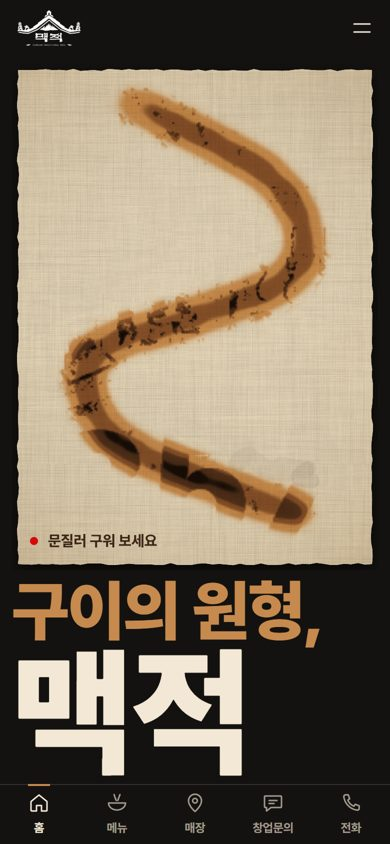
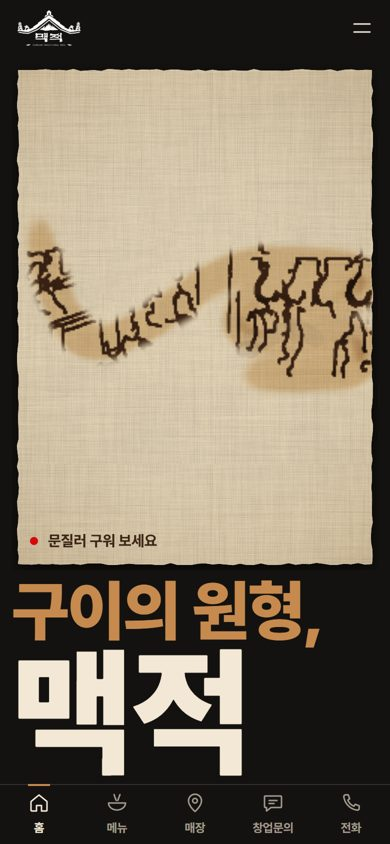
맥적 2안 낙화 장면을 갈색 선화로 다듬고 보드 아이콘 추가

Changed region(s): [[0.0615, 0.0924, 0.9538, 0.6469]]

diff --git a/2/js/nakhwa.js b/2/js/nakhwa.js
@@ -11,45 +11,41 @@ const sstep = (a, b, x) => {
 export const NK = {
   radiusFrac: 0.04, radiusMin: 24, radiusMax: 70, // 인두 반경 = 무대 폭 4%
   pass: 0.35,      // 보통 빠르기로 한 번 지날 때 쌓이는 열
-  base: 0.82,      // 바탕(벽화 선이 없는 곳)의 그을림 빠르기 → 세 번이면 짙은 갈 문턱
-  lineGain: 1.0,   // 벽화 선 자리 = 0.82 + 1.0 = 1.82 (바탕의 약 2.2배)
-  cap: 1.3,        // 바탕은 짙은 갈에서 멈춤(선 자리만 숯까지)
-  th: [0.175, 0.525, 0.875, 1.47], // 연갈 · 갈 · 짙은 갈 · 숯 문턱
-  w: 0.075,        // 단계 경계의 부드러움
+  base: 0.6,       // 바탕(선이 아닌 곳) 그을림 빠르기 — 아무리 문질러도 연갈~갈(2단)까지만
+  lineGain: 1.0,   // 선화 자리: 짙은 갈 → 숯
+  cap: 1.3,
+  bgTh: [0.15, 0.5], bgW: 0.09,   // 바탕 2단 문턱(부드럽게)
+  lnTh: [0.05, 0.38, 0.5, 0.95],  // 선: 짙은 갈로 진해지는 구간, 숯으로 가는 구간
   speedPC: 700, speedTouch: 450, // '보통 빠르기'(px/s)
-  demoDur: 2.5, demoHeat: 0.9, // 시범 인두: 2.5초, 지나간 자리 누적 0.9(바탕 갈 + 선은 숯)
+  demoDur: 2.5, demoHeat: 0.65, // 시범 인두: 2.5초, 지나간 자리 누적 0.65(선은 짙은 갈, 바탕은 연갈)
   follow: 30,      // 인두가 손을 따라가는 빠르기 1-exp(-dt*k)
   dwell: 0.9,      // 멈춘 채 이 시간이 지나면 인두를 든다(초)
 };
 
-// 곱하기 색 — 한지(약 #E5D9C2) 위에 곱해지면 목표색이 되도록 맞춘 값
-const STOPS = [
-  [255, 255, 255], // 그대로
-  [226, 168, 104], // 연갈  ≈ #C68A4E
-  [150, 96, 56],   // 갈    ≈ #7A4A28
-  [92, 58, 36],    // 짙은 갈 ≈ 먹색 75% 수준
-  [26, 16, 10],    // 숯(벽화 선 자리만)
-];
+// 곱하기 색 — 한지(약 #E6DBC7) 위에 곱해져 목표색이 되도록 맞춘 값
+// 바탕은 주황기 없는 '구운 종이' 2단, 선만 짙은 갈 → 숯
+const BG = [[255, 255, 255], [232, 208, 170], [184, 140, 100]]; // 그대로 · 연갈 · 갈
+const LN_DARK = [66, 42, 28];  // 짙은 갈 ≈ #3B2416
+const LN_CHAR = [24, 15, 10];  // 숯
 
 function buildLUT() {
-  const N = 1024, VMAX = 2.4;
-  const lut = new Uint8ClampedArray(N * 3);
+  const N = 1024, VMAX = 1.6;
+  const bg = new Uint8ClampedArray(N * 3), ln = new Uint8ClampedArray(N * 4);
   for (let i = 0; i < N; i++) {
     const v = (i / (N - 1)) * VMAX;
-    let stage = 0;
-    for (const x of NK.th) stage += sstep(x - NK.w, x + NK.w, v);
-    // 첫 단계 전에도 아주 옅게 누렇게 — 손이 닿은 걸 알 수 있게
-    stage += 0.25 * sstep(0.02, NK.th[0], v) * (1 - sstep(NK.th[0] - NK.w, NK.th[0] + NK.w, v));
-    // 단계 안에서도 조금씩 진해지게(평평한 판처럼 보이지 않게)
-    const cont = clamp(v / NK.pass, 0, 4);
-    const t = clamp(stage * 0.86 + cont * 0.14, 0, 4);
-    const k = Math.min(3, Math.floor(t)), f = t - k;
-    const a = STOPS[k], b = STOPS[k + 1];
-    lut[i * 3] = a[0] + (b[0] - a[0]) * f;
-    lut[i * 3 + 1] = a[1] + (b[1] - a[1]) * f;
-    lut[i * 3 + 2] = a[2] + (b[2] - a[2]) * f;
+    // 바탕: 2단(경계는 부드럽게), 그 이상은 안 간다
+    let t = 0;
+    for (const x of NK.bgTh) t += sstep(x - NK.bgW, x + NK.bgW, v);
+    t = clamp(t * 0.85 + clamp(v / NK.bgTh[1], 0, 2) * 0.075, 0, 2);
+    const k = Math.min(1, Math.floor(t)), f = t - k;
+    for (let c = 0; c < 3; c++) bg[i * 3 + c] = BG[k][c] + (BG[k + 1][c] - BG[k][c]) * f;
+    // 선: 짙은 갈로 떠오르고 → 숯으로
+    const a = sstep(NK.lnTh[0], NK.lnTh[1], v);
+    const ch = sstep(NK.lnTh[2], NK.lnTh[3], v);
+    for (let c = 0; c < 3; c++) ln[i * 4 + c] = LN_DARK[c] + (LN_CHAR[c] - LN_DARK[c]) * ch;
+    ln[i * 4 + 3] = a * 255;
   }
-  return { lut, N, scale: (N - 1) / VMAX };
+  return { bg, ln, N, scale: (N - 1) / VMAX };
 }
 
 // 고정 씨앗 난수(그림이 매번 같게)
@@ -86,7 +82,7 @@ function coverSrc(iw, ih, w, h, fx, fy) {
 }
 
 export function createNakhwa(stage, opts = {}) {
-  const { reduceMotion = false, isTouch = false, muralSrc, tileSrc, onFirstBurn } = opts;
+  const { reduceMotion = false, isTouch = false, muralSrc, tileSrc, linesSrc, onFirstBurn } = opts;
   const paper = stage.querySelector('.nk__paper');
   const burn = stage.querySelector('.nk__burn');
   const fx = stage.querySelector('.nk__fx');
@@ -95,10 +91,10 @@ export function createNakhwa(stage, opts = {}) {
   const fctx = fx.getContext('2d');
   if (!pctx || !bctx || !fctx) throw new Error('canvas 2d 불가');
 
-  const { lut, N: LN, scale: LS } = buildLUT();
+  const { bg: BGL, ln: LNL, N: LN, scale: LS } = buildLUT();
   const debugInk = /nkdebug/.test(location.search);
 
-  let mural = null, tile = null;
+  let mural = null, tile = null, lines = null;
   let W = 0, H = 0, dpr = 1, cs = 2, fw = 0, fh = 0;
   let rect = null; // 한지 사각형(CSS px)
   let heat = null, ink = null, grain = null, mask = null, img = null;
@@ -116,8 +112,8 @@ export function createNakhwa(stage, opts = {}) {
   let acc = 0;
 
   // ───────── 준비 ─────────
-  const loaded = Promise.all([loadImage(muralSrc), loadImage(tileSrc)]).then(([m, t]) => {
-    mural = m; tile = t;
+  const loaded = Promise.all([loadImage(muralSrc), loadImage(tileSrc), loadImage(linesSrc)]).then(([m, t, l]) => {
+    mural = m; tile = t; lines = l;
     build();
     ready = true;
     startDemo();
@@ -253,76 +249,41 @@ export function createNakhwa(stage, opts = {}) {
     mask = new Float32Array(fw * fh);
     for (let i = 0; i < fw * fh; i++) mask[i] = md[i * 4 + 3] / 255;
 
-    // 벽화 → '미리 먹인 선'
+    // 벽화 선화(윤곽선) 지도 → 0~1
     ctx.clearRect(0, 0, fw, fh);
     const [fxp, fyp] = muralFocus();
     const rx = rect.x * s, ry = rect.y * s, rw = rect.w * s, rh = rect.h * s;
-    const src = coverSrc(mural.width, mural.height, rw, rh, fxp, fyp);
-    ctx.drawImage(mural, src[0], src[1], src[2], src[3], rx, ry, rw, rh);
+    const src = coverSrc(lines.width, lines.height, rw, rh, fxp, fyp);
+    ctx.imageSmoothingQuality = 'high';
+    ctx.drawImage(lines, src[0], src[1], src[2], src[3], rx, ry, rw, rh);
     const d = ctx.getImageData(0, 0, fw, fh).data;
     const n = fw * fh;
-    const L = new Float32Array(n), red = new Float32Array(n);
-    for (let i = 0; i < n; i++) {
-      const r = d[i * 4] / 255, g = d[i * 4 + 1] / 255, b = d[i * 4 + 2] / 255;
-      L[i] = 0.299 * r + 0.587 * g + 0.114 * b;
-      red[i] = r - Math.max(g, b);
-    }
-    const M = boxBlur(boxBlur(L, fw, fh, Math.max(3, Math.round(7 / cs * 2))), fw, fh, Math.max(3, Math.round(7 / cs * 2)));
     ink = new Float32Array(n);
-    for (let i = 0; i < n; i++) {
-      const hp = sstep(0.035, 0.14, M[i] - L[i]);           // 둘레보다 어두운 곳 = 선
-      const rd = sstep(0.13, 0.28, red[i]);                  // 붉은 안료(불·고기)만
-      const dk = 0;
-      ink[i] = clamp(Math.max(hp, rd) + dk, 0, 1);
-    }
-    // 선을 둥글게 한 칸 굵히고 잡티(얼룩 점)는 지움: 흐리게 → 대비 곡선
-    const soft = boxBlur(ink, fw, fh, 1);
-    for (let i = 0; i < n; i++) ink[i] = sstep(0.12, 0.62, ink[i] * 0.5 + soft[i] * 0.75) * mask[i];
-    // 큰 숫자 '357' — 문지르면 낙인처럼 떠오른다
+    // 줄여 그리면 선이 옅어지므로 대비를 조금 올림
+    for (let i = 0; i < n; i++) ink[i] = sstep(0.1, 0.65, d[i * 4] / 255) * mask[i];
+    // '357' — 같은 선화 결로(윤곽만) 숨겨 둔다
     ctx.clearRect(0, 0, fw, fh);
-    ctx.fillStyle = '#fff';
+    ctx.strokeStyle = '#fff';
+    ctx.lineJoin = 'round';
     ctx.textBaseline = 'alphabetic';
     let size, x, y;
     if (portrait) {
       size = rw * 0.44;
-      ctx.font = `900 ${size}px "Pretendard Variable", Pretendard, sans-serif`;
       ctx.textAlign = 'center';
       x = rx + rw * 0.5; y = ry + rh * 0.955;
     } else {
       size = rh * 0.40;
-      ctx.font = `900 ${size}px "Pretendard Variable", Pretendard, sans-serif`;
       ctx.textAlign = 'right';
       x = rx + rw * 0.965; y = ry + rh * 0.95;
     }
-    ctx.fillText('357', x, y);
+    ctx.font = `900 ${size}px "Pretendard Variable", Pretendard, sans-serif`;
+    ctx.lineWidth = Math.max(1.6, size * 0.03);
+    ctx.strokeText('357', x, y);
     const td = ctx.getImageData(0, 0, fw, fh).data;
     for (let i = 0; i < n; i++) {
       const a = td[i * 4 + 3] / 255;
-      if (a > 0) ink[i] = Math.max(ink[i], a * 0.92 * mask[i]);
+      if (a > 0) ink[i] = Math.max(ink[i], a * mask[i]);
     }
-  }
-
-  function boxBlur(src, w, h, r) {
-    const tmp = new Float32Array(w * h), out = new Float32Array(w * h);
-    const inv = 1 / (r * 2 + 1);
-    for (let y = 0; y < h; y++) {
-      let acc = 0;
-      const row = y * w;
-      for (let x = -r; x <= r; x++) acc += src[row + clamp(x, 0, w - 1)];
-      for (let x = 0; x < w; x++) {
-        tmp[row + x] = acc * inv;
-        acc += src[row + Math.min(w - 1, x + r + 1)] - src[row + Math.max(0, x - r)];
-      }
-    }
-    for (let x = 0; x < w; x++) {
-      let acc = 0;
-      for (let y = -r; y <= r; y++) acc += tmp[clamp(y, 0, h - 1) * w + x];
-      for (let y = 0; y < h; y++) {
-        out[y * w + x] = acc * inv;
-        acc += tmp[Math.min(h - 1, y + r + 1) * w + x] - tmp[Math.max(0, y - r) * w + x];
-      }
-    }
-    return out;
   }
 
   // 그을림이 고르지 않게 — 낮은 주파수 얼룩(0.86~1.14)
@@ -399,13 +360,16 @@ export function createNakhwa(stage, opts = {}) {
     for (let y = y0; y < y1; y++) {
       let i = y * fw + x0;
       for (let x = x0; x < x1; x++, i++) {
-        const v = heat[i] * (NK.base + NK.lineGain * ink[i]) * grain[i];
-        let li = (v * LS) | 0;
+        const h = heat[i] * grain[i];
+        let bi = (h * NK.base * LS) | 0;
+        if (bi > LN - 1) bi = LN - 1;
+        let li = (h * NK.lineGain * ink[i] * LS) | 0;
         if (li > LN - 1) li = LN - 1;
-        const o = i << 2, l = li * 3;
-        data[o] = lut[l];
-        data[o + 1] = lut[l + 1];
-        data[o + 2] = lut[l + 2];
+        const o = i << 2, b3 = bi * 3, l4 = li << 2;
+        const a = LNL[l4 + 3] / 255;
+        data[o] = BGL[b3] + (LNL[l4] - BGL[b3]) * a;
+        data[o + 1] = BGL[b3 + 1] + (LNL[l4 + 1] - BGL[b3 + 1]) * a;
+        data[o + 2] = BGL[b3 + 2] + (LNL[l4 + 2] - BGL[b3 + 2]) * a;
       }
     }
     bctx.putImageData(img, 0, 0, x0, y0, x1 - x0, y1 - y0);
@@ -414,8 +378,8 @@ export function createNakhwa(stage, opts = {}) {
   // ───────── 시범 인두(S자) ─────────
   function buildDemoPath() {
     const wp = portrait
-      ? [[0.30, 0.06], [0.72, 0.22], [0.80, 0.40], [0.50, 0.50], [0.20, 0.58], [0.26, 0.74], [0.56, 0.84], [0.80, 0.90]]
-      : [[0.04, 0.30], [0.16, 0.52], [0.26, 0.60], [0.38, 0.47], [0.47, 0.42], [0.57, 0.56], [0.70, 0.78], [0.86, 0.80], [0.97, 0.70]];
+      ? [[0.05, 0.30], [0.10, 0.44], [0.20, 0.56], [0.40, 0.50], [0.62, 0.40], [0.95, 0.40], [0.96, 0.46], [0.66, 0.47], [0.64, 0.54], [0.96, 0.54], [0.96, 0.61], [0.66, 0.62]]
+      : [[0.07, 0.50], [0.15, 0.44], [0.21, 0.58], [0.30, 0.50], [0.36, 0.41], [0.49, 0.41], [0.51, 0.50], [0.37, 0.53], [0.35, 0.62], [0.50, 0.63]];
     const P = wp.map(([u, v]) => [rect.x + u * rect.w, rect.y + v * rect.h]);
     const pts = [];
     for (let i = 0; i < P.length - 1; i++) {
@@ -687,12 +651,13 @@ export function createNakhwa(stage, opts = {}) {
 
   // 검수용: 현재 숫자와 상태
   function stats() {
-    let s1 = 0, s2 = 0, s3 = 0;
+    let bg1 = 0, bg2 = 0, lnDark = 0, lnChar = 0;
     for (let i = 0; i < heat.length; i++) {
-      const v = heat[i] * (NK.base + NK.lineGain * ink[i]);
-      if (v > NK.th[2]) s3++; else if (v > NK.th[1]) s2++; else if (v > NK.th[0]) s1++;
+      const b = heat[i] * NK.base, l = heat[i] * NK.lineGain * ink[i];
+      if (b > NK.bgTh[1]) bg2++; else if (b > NK.bgTh[0]) bg1++;
+      if (l > NK.lnTh[3]) lnChar++; else if (l > NK.lnTh[1]) lnDark++;
     }
-    return { W, H, fw, fh, cs, radius: Math.round(radius), sigma: Math.round(sigma), stage1: s1, stage2: s2, stage3: s3, demoR: +demo.R.toFixed(2) };
+    return { W, H, fw, fh, cs, radius: Math.round(radius), sigma: Math.round(sigma), bg1, bg2, lnDark, lnChar, demoR: +demo.R.toFixed(2) };
   }
 
   return { update, reset, resize, loaded, stats, get ready() { return ready; } };

diff --git a/index.html b/index.html
@@ -5,6 +5,7 @@
 <meta name="viewport" content="width=device-width, initial-scale=1, viewport-fit=cover">
 <meta name="robots" content="noindex, nofollow">
 <title>맥적 전주본점 · 홈페이지 메인 시안 3안</title>
+<link rel="icon" href="assets/logo/japsang_front.png">
 <link rel="stylesheet" href="https://cdn.jsdelivr.net/gh/orioncactus/pretendard@v1.3.9/dist/web/variable/pretendardvariable-dynamic-subset.min.css">
 <style>
 :root{--ink:#1d1c1a;--sub:#5d5852;--line:#e6e1d8;--paper:#faf8f3;--fire:#c4170f;--wood:#745c4f}

diff --git a/2/style.css b/2/style.css
@@ -35,7 +35,8 @@ body {
 img { display: block; max-width: 100%; height: auto; }
 a { color: inherit; }
 ul, ol { list-style: none; }
-button { font: inherit; color: inherit; }
+button, input, select, textarea { font: inherit; }
+button { color: inherit; }
 :focus-visible { outline: 2px solid var(--tan); outline-offset: 3px; }
 
 .skip {

diff --git a/2/js/main.js b/2/js/main.js
@@ -91,6 +91,7 @@ try {
     isTouch,
     muralSrc: '../assets/art/anak3_kitchen_commons.jpg',
     tileSrc: '../assets/art/hanji_linen_tile.jpg',
+    linesSrc: 'img/anak3_lines.png',
     onFirstBurn: () => hint.classList.add('is-off'),
   });
   nk.loaded.catch((err) => { console.warn(err); stageEl.classList.add('is-still'); });
